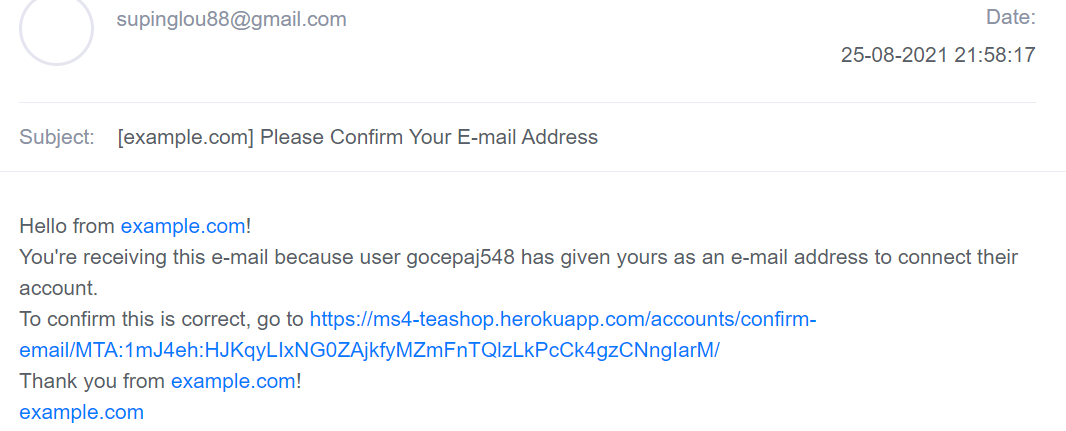
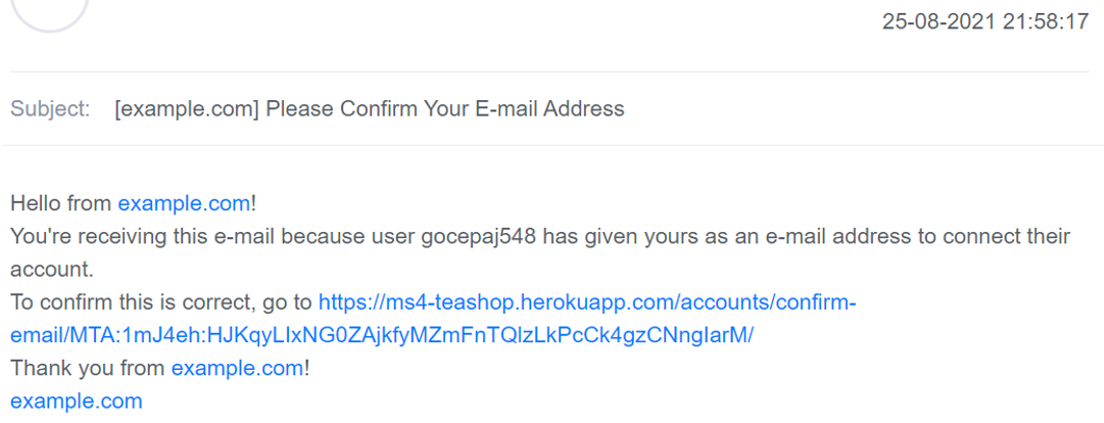
added missing img for testing.md

diff --git a/Testing.md b/Testing.md
@@ -80,7 +80,7 @@
 
 - Receive an email confirmation after checking out 
     - Email will send out to shopper after checking out.
-![image](/assets/user_stories/.png)
+![image](/assets/user_stories/order_confirmation_email.png)
 
 - View other shopper's review
     - At the bottom of the product detail page shopper can view registered site user's review.
